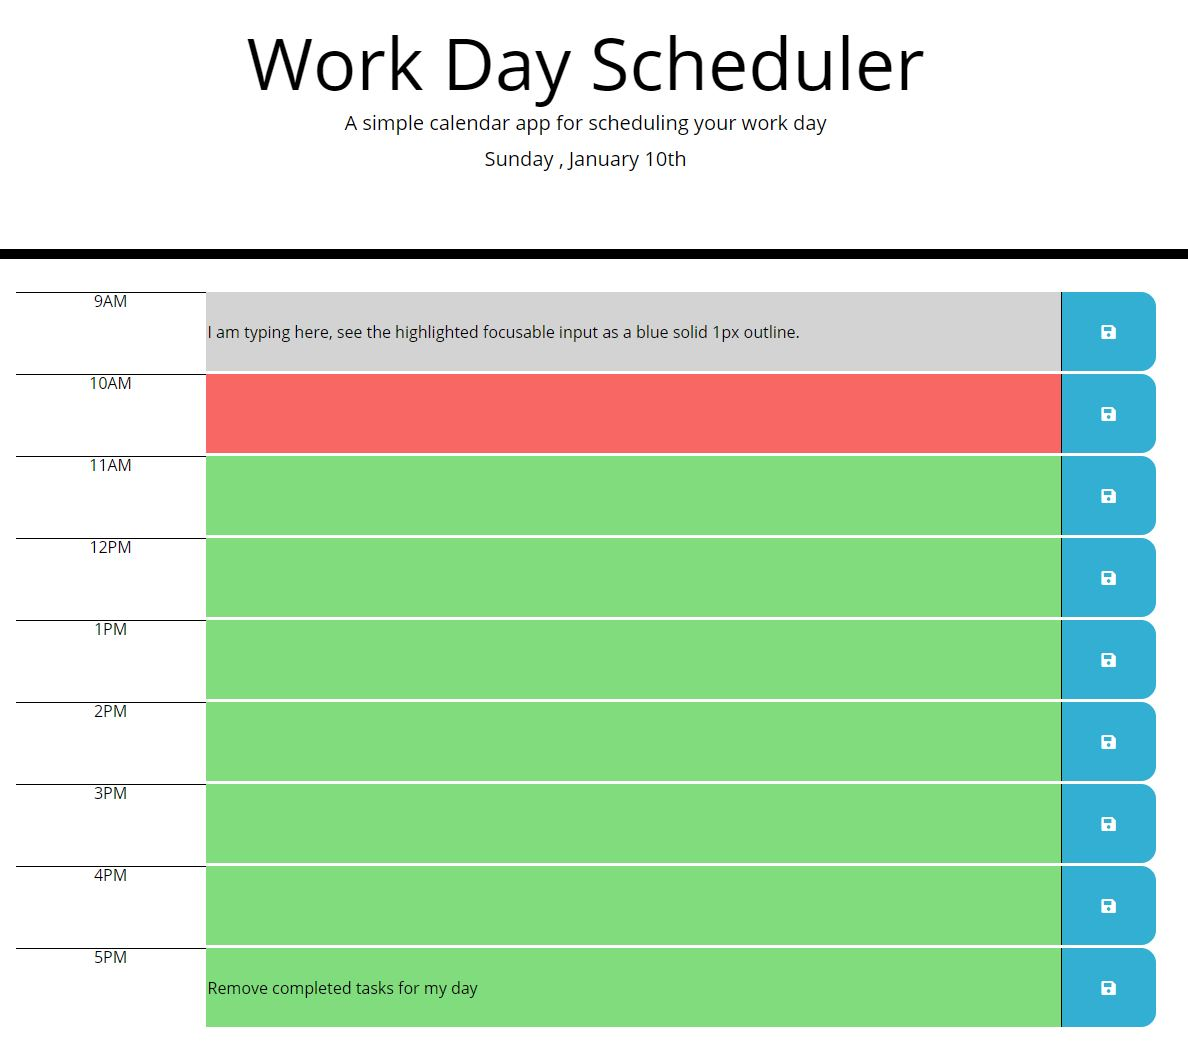
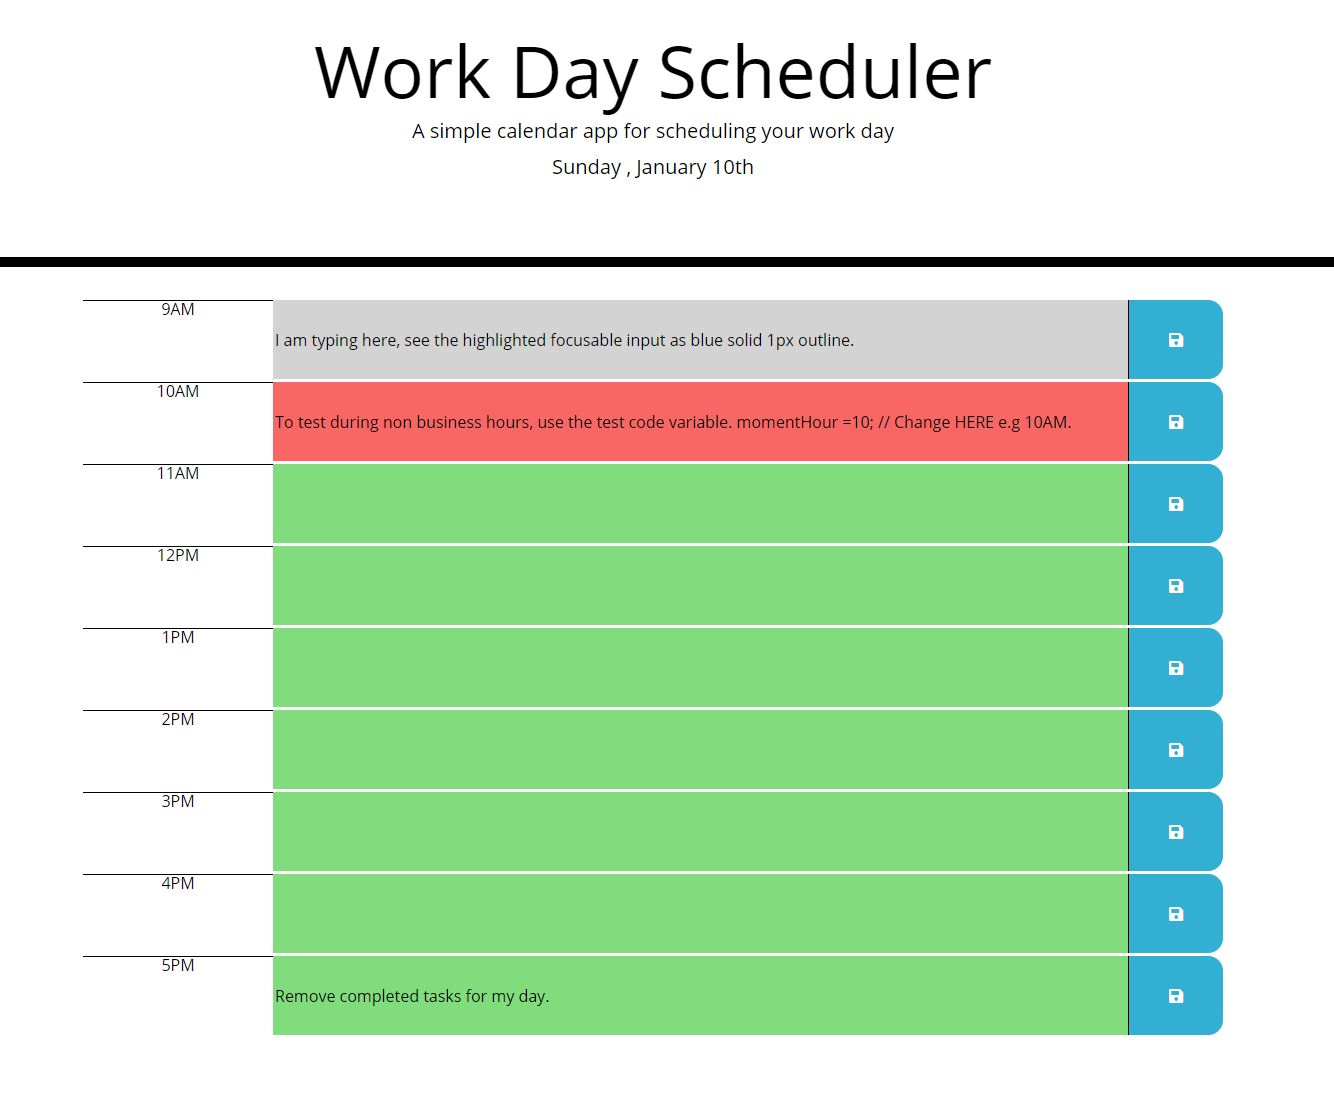
new images added

diff --git a/assets/js/script.js b/assets/js/script.js
@@ -211,7 +211,7 @@ $(document).ready(function() { // Wait for the DOM to be ready for window., java
 
     // *** If your current houris outside of 17 hours or 5 PM, please  modify below for testing ***
     // *** For testing change the momentHour to 9-17 ***
-       // momentHour = 10; // Change HERE e.g 10 AM
+       momentHour = 10; // Change HERE e.g 10 AM
       
     // *** START of getting each input task through the DOM and update its color
 
